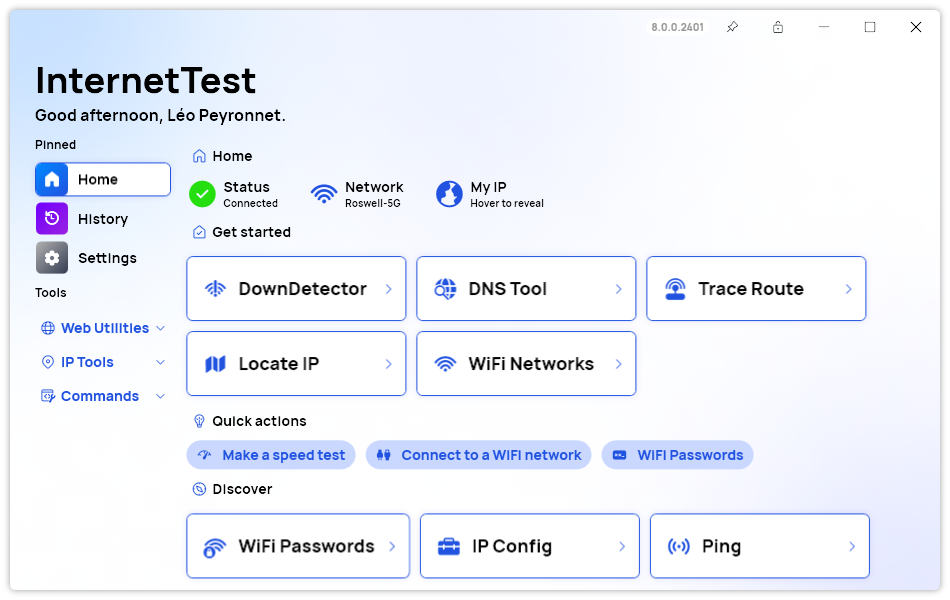
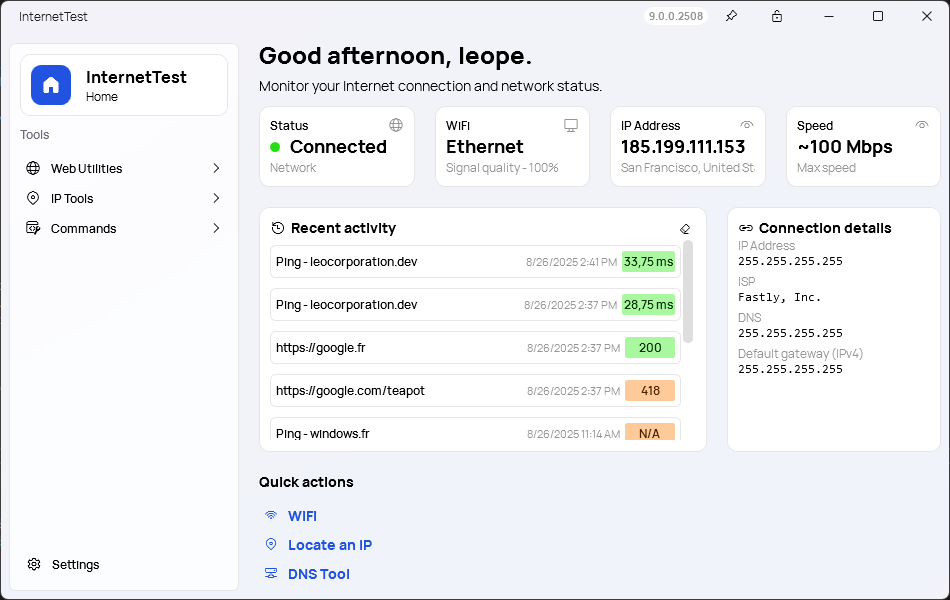
Updated README and screenshots

diff --git a/README.md b/README.md
@@ -45,30 +45,21 @@ InternetTest Pro - Your Windows connection toolkit. Monitor, diagnose, and optim
 ## Features
 
 InternetTest Pro is a powerful and modern connection utility designed for Windows users. With its comprehensive set of features, InternetTest Pro empowers you to monitor and optimize your internet connection experience. Here are some of the key features:
-
-### Check Internet Connection
-
-Easily determine whether your Windows device is currently connected to the internet. InternetTest Pro provides a quick and accurate way to assess your online status.
-
-### Perform Speed Test
-
-Measure your internet connection's speed with precision using the built-in speed test feature. Understand your download speed to ensure you're getting the performance you expect from your service provider.
-
 ### Website Availability Check
 
 Verify the availability of websites in real-time. InternetTest Pro allows you to check whether specific websites are up or down, helping you identify potential network or website issues.
 
-### DNS Information Retrieval
+### DNS Tools
 
-Retrieve DNS information for a domain using the DNS lookup feature. Similar to the `dig` command, InternetTest Pro provides detailed DNS records for domains, enabling you to diagnose and troubleshoot network-related problems.
+<picture>
+  <source srcset=".github/images/screens/7B.png" media="(prefers-color-scheme: dark)"          />
+    <img
+      src=".github/images/screens/7.png"
+      alt="A screenshot of the 'DNS Tool' page of InternetTest Pro"
+    />
+</picture>
 
-### Nearby WiFi Network Information
-
-Discover nearby WiFi networks and gather essential information about them. InternetTest Pro provides insights into available networks, aiding in the selection of the most suitable and stable connection.
-
-### IP Address Display
-
-The "IP Address Display" feature in InternetTest Pro provides you with an immediate and straightforward way to access your device's current IP address. Your device's IP address is a fundamental identifier used to communicate on a network.
+Retrieve DNS information for a domain using the DNS lookup feature. Similar to the `dig` command, InternetTest Pro provides detailed DNS records for domains, enabling you to diagnose and troubleshoot network-related problems. You can also access WHOIS information for domain registration details. Plus, you can view the local DNS cache and flush it if needed.
 
 ### IP and URL Geolocation
 
@@ -129,7 +120,13 @@ InternetTest Pro includes a traceroute feature that enables you to trace the pat
 
 The traceroute functionality in InternetTest Pro provides valuable insights into the network's structure and performance, enabling you to optimize your network connections and diagnose issues effectively.
 
-### WiFi Password Recovery
+
+
+### WiFi Utilities
+
+The WiFi Utilities feature in InternetTest Pro empowers users with a comprehensive set of tools to manage and optimize their wireless network connections. Whether you're seeking information about nearby networks or fine-tuning your network adapters, this section provides you with the functionality you need.
+
+#### 1. WiFi Password Recovery
 
 <picture>
   <source srcset=".github/images/screens/3B.png" media="(prefers-color-scheme: dark)"          />
@@ -148,11 +145,7 @@ The "WiFi Password Recovery" feature in InternetTest Pro offers a convenient and
 
 InternetTest Pro brings together a comprehensive suite of tools to empower Windows users with detailed insights into their internet connection and network environment. Whether you're troubleshooting connectivity issues or optimizing your online experience, InternetTest Pro has you covered.
 
-### WiFi Networks
-
-The WiFi Networks feature in InternetTest Pro empowers users with a comprehensive set of tools to manage and optimize their wireless network connections. Whether you're seeking information about nearby networks or fine-tuning your network adapters, this section provides you with the functionality you need.
-
-#### 1. WiFi Networks Section
+#### 2. WiFi Networks
 
 - **Discover Available Nearby Networks**:
   InternetTest Pro allows you to access detailed information about nearby WiFi networks, including speed, signal strength, band, frequency, and more. Make informed decisions about which network to connect to, ensuring a seamless online experience.
@@ -161,7 +154,7 @@ The WiFi Networks feature in InternetTest Pro empowers users with a comprehensiv
 - **WiFi Network Scanning**:
   Stay up-to-date with the latest information on nearby WiFi networks. Launch a scan to refresh the list of available networks, ensuring you always have access to the most accurate and current data.
 
-#### 2. Network Adapters Section
+#### 3. Network Adapters
 
 - **Obtain Available Network Adapters**:
   Get all available network adapters on your system, along with essential information such as their status, interface type, speed, and total bytes received and sent. This knowledge allows you to troubleshoot network issues effectively.
@@ -174,7 +167,7 @@ The WiFi Networks feature in InternetTest Pro puts you in control of your wirele
 
 InternetTest Pro offers a range of customization features that fit to your unique preferences and needs. These features are designed to enhance your overall user experience and adapt the utility to fit your specific requirements.
 
-### Customized Dashboard ([Synethia](https://github.com/DevyusCode/Synethia))
+### Modern Dashboard
 
 <picture>
   <source srcset=".github/images/screens/1B.png" media="(prefers-color-scheme: dark)"          />
@@ -183,7 +176,8 @@ InternetTest Pro offers a range of customization features that fit to your uniqu
       alt="A screenshot of the 'Home' page of InternetTest Pro"
     />
 </picture>
-Experience a dashboard tailored to your usage patterns with the innovative Synethia feature. InternetTest Pro intelligently analyzes your interactions and prioritizes the tools you use most frequently. This means that your most-used features are conveniently placed front and center, allowing for a faster and more efficient workflow.
+
+Quickly find the information you need with the modern dashboard's intuitive layout. The dashboard provides an overview of your internet connection status, recent activities, and quick access to essential features. This streamlined design ensures that you can navigate the utility effortlessly and access the tools you need with ease.
 
 ### Dark Mode
 
